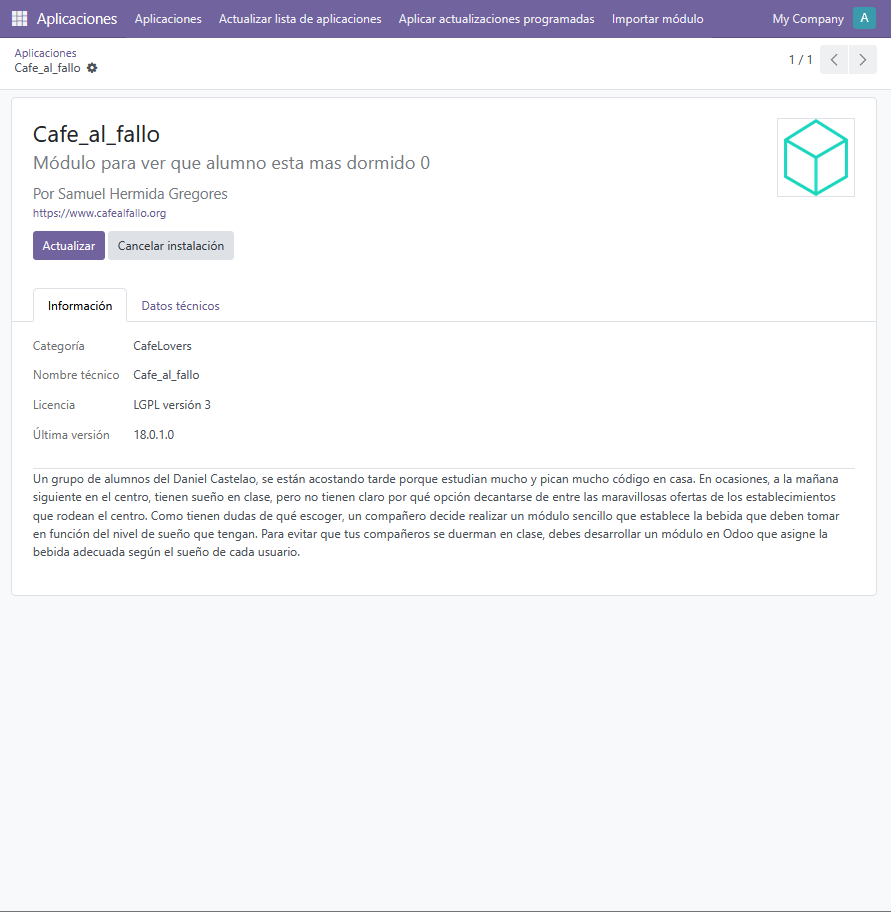
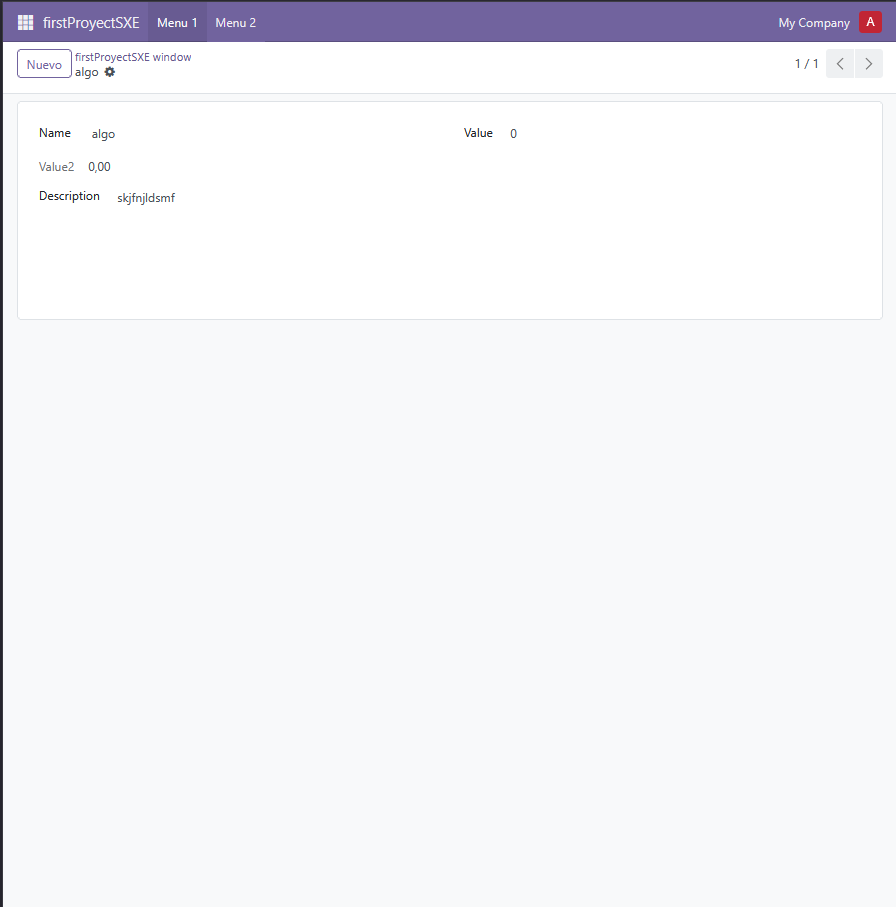
Programa basico realizado

diff --git a/DockerCompose/DockerComposeModulo/extra-addons/first_proyect_sxe/models/models.py b/DockerCompose/DockerComposeModulo/extra-addons/first_proyect_sxe/models/models.py
@@ -1,19 +1,50 @@
 # -*- coding: utf-8 -*-
-
 from odoo import models, fields, api
 
 
 class first_proyect_sxe(models.Model):
-     _name = 'first_proyect_sxe.first_proyect_sxe'
-     _description = 'first_proyect_sxe.first_proyect_sxe'
+    # Mantenemos el nombre original del modelo para compatibilidad
+    _name = 'first_proyect_sxe.first_proyect_sxe'
+    _description = 'Nivel de Sueño y Bebida Recomendada'
 
-     name = fields.Char()
-     value = fields.Integer()
-     value2 = fields.Float(compute="_value_pc", store=True)
-     description = fields.Text()
+    _rec_name = "alumno"
 
-     @api.depends('value')
-     def _value_pc(self):
-         for record in self:
-             record.value2 = float(record.value) / 100
+    # Campo original 'name' renombrado a 'alumno'
+    alumno = fields.Char(string='Nombre del Alumno', required=True)
 
+    # Campo 'value' reemplazado por 'nivel_sueno' (almacenado en DB)
+    nivel_sueno = fields.Integer(
+        string='Nivel de Sueño (1-10)',
+        required=True,
+        default=1,
+        help="Indica qué tan dormido está el alumno, de 1 (poco) a 10 (máximo)."
+    )
+
+    # Campo 'value2' reemplazado por 'bebida_recomendada' (Calculado, NO almacenado)
+    bebida_recomendada = fields.Char(
+        string='Bebida Recomendada',
+        compute='_compute_recommended_drink',
+        store=False
+    )
+
+    # Mantenemos el campo 'description' por si se usaba, aunque no es requerido por la especificación.
+    description = fields.Text(string='Notas')
+
+    # Método computado para determinar la bebida
+    @api.depends('nivel_sueno')
+    def _compute_recommended_drink(self):
+        for record in self:
+            sueno = record.nivel_sueno
+
+            if sueno >= 1 and sueno <= 3:
+                record.bebida_recomendada = "Café con leche 🥛☕"
+            elif sueno >= 4 and sueno <= 6:
+                record.bebida_recomendada = "Café solo largo ☕"
+            elif sueno >= 7 and sueno <= 9:
+                record.bebida_recomendada = "Café solo larguísimo 😵💫"
+            elif sueno == 10:
+                record.bebida_recomendada = "💉 Inyección de adrenalina (¡Máximo Sueño!)"
+            else:
+                record.bebida_recomendada = "Nivel de sueño fuera del rango (1-10)"
+
+    # Eliminamos el método _value_pc ya que no es necesario.

diff --git a/DockerCompose/DockerComposeModulo/Documentacion/Readme.md b/DockerCompose/DockerComposeModulo/Documentacion/Readme.md
@@ -174,12 +174,14 @@ volumes:
 ---
 ![img_6.png](ImagenesReadme/img_6.png)
 
-#### *Clickando en informacion podremos encontrar nuestro querido modulo*
+#### Probamos a crear una nueva anotacion con su respectiva etiqueta y sus valores
 
-![img_5.png](ImagenesReadme/img_5.png)
+![img.png](ImagenesReadme/img_5.png)
 
+#### ¿Que haremos despues de instalar nuestro modulo?
 
-#### ¿Que ha pasado despues de instalar nuestro modulo?
+#### Pues le daremos los valores que requiere el enunciado.
+
 
 ---
 
